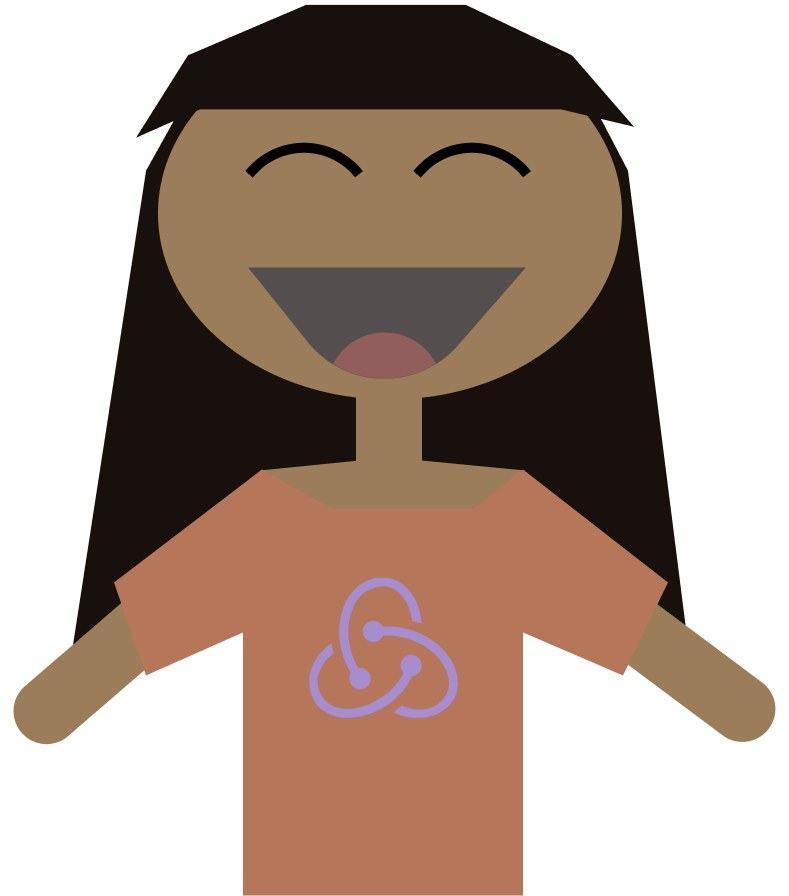
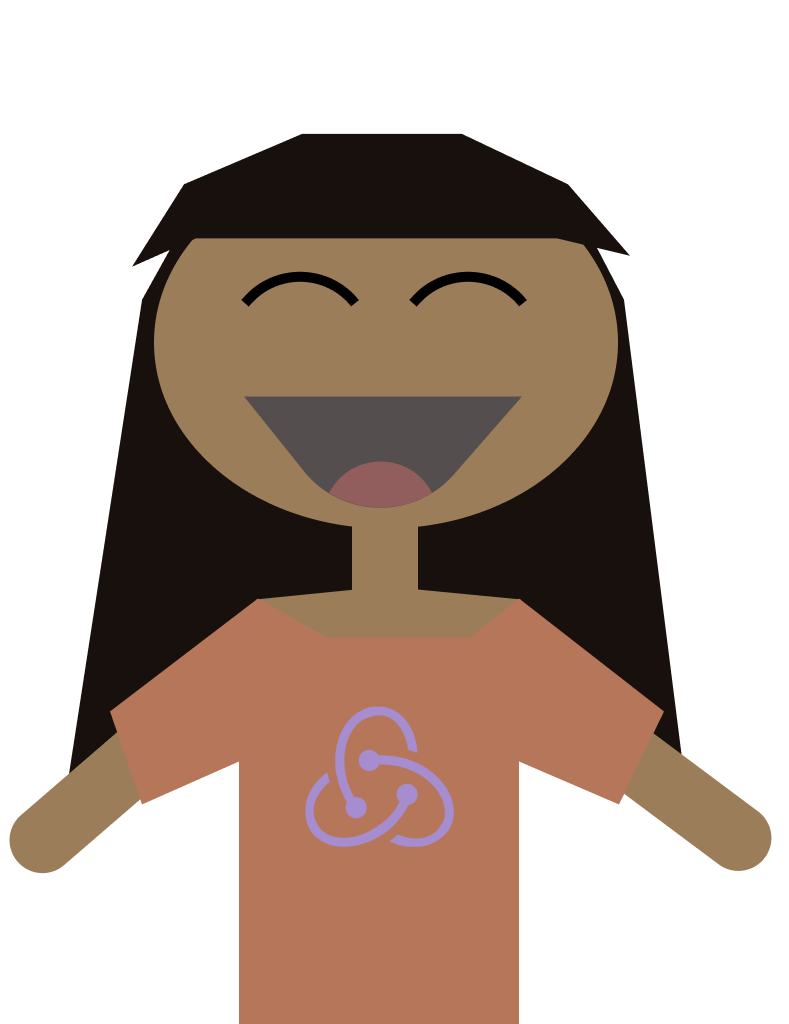
fix customer styling

diff --git a/src/components/Window/Customer.jsx b/src/components/Window/Customer.jsx
@@ -15,6 +15,14 @@ function Customer(){
         };
         img{
           height: 100%;
+        };
+        @media only screen and (min-width: 1450px){
+          margin-top: 5%;
+        };
+        @media only screen and (max-width: 1030px){
+          img{
+            height: 60%;
+          }
         }
       `}</style>
     </div>
